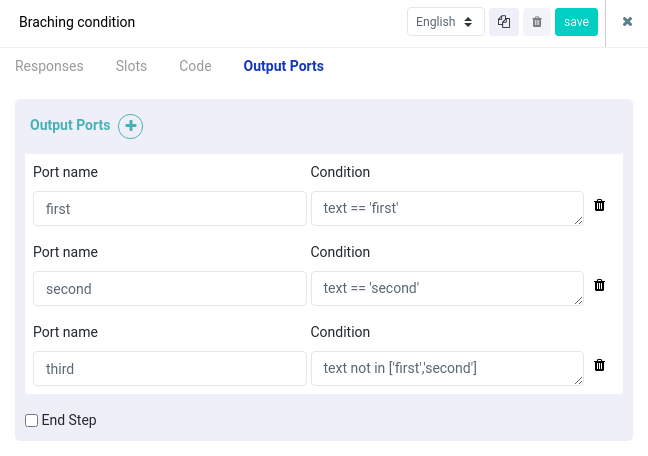
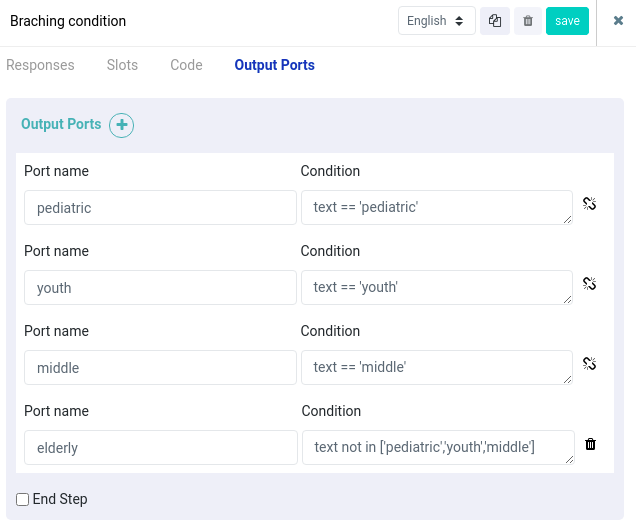
updated branching example

diff --git a/docs/workflow-branching-conditions.md b/docs/workflow-branching-conditions.md
@@ -12,7 +12,7 @@ Let's look at this in detail with a small ***example***.
 The picture below shows a simple workflow using user interaction nodes.
 ![](assets\branching_workflow.png)
 
-Now lets open the user interaction node and set up branching.
+Now lets open the user interaction node and set up branching menu and conditions.
 Here in the below picture you can see buttons and its respective payload.
 
 ![](assets\branching_menu.png)
@@ -21,10 +21,10 @@ Now lets add some simple branching conditions.
 
 ![](assets\branching_condition.png)
 
-here the state changes only if the payload matches the branching conditions.
-Meaning the bot traverses to the first state if the payload **first** matches the **condition text == 'first'**.
+Here the state changes only if the payload matches the branching conditions.
+Meaning the bot traverses to the first state if the payload **pediatric** matches the condition **text == 'pediatric'**.
 
-Now for the third state **text not in ['first','second']** is another way of giving branch conditions. This can also be done as **text != 'first' and text != 'second'** or **simply text == 'third'**.
+Now for the last state **text not in ['pediatric','youth','middle']** is another way of giving branch conditions. This can also be done as **text != 'pediatric' and text != 'youth' and text != 'middle'** or simply **text == 'elderly'**.
 
 
 ![](assets\branching_response.gif)
